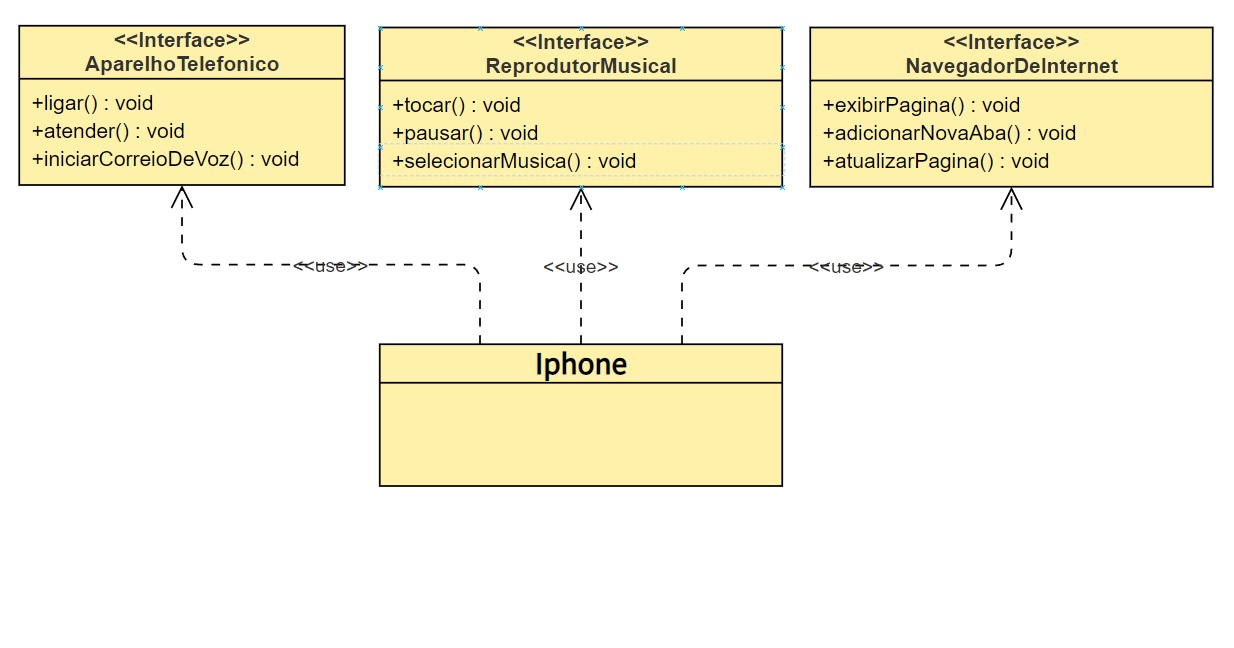
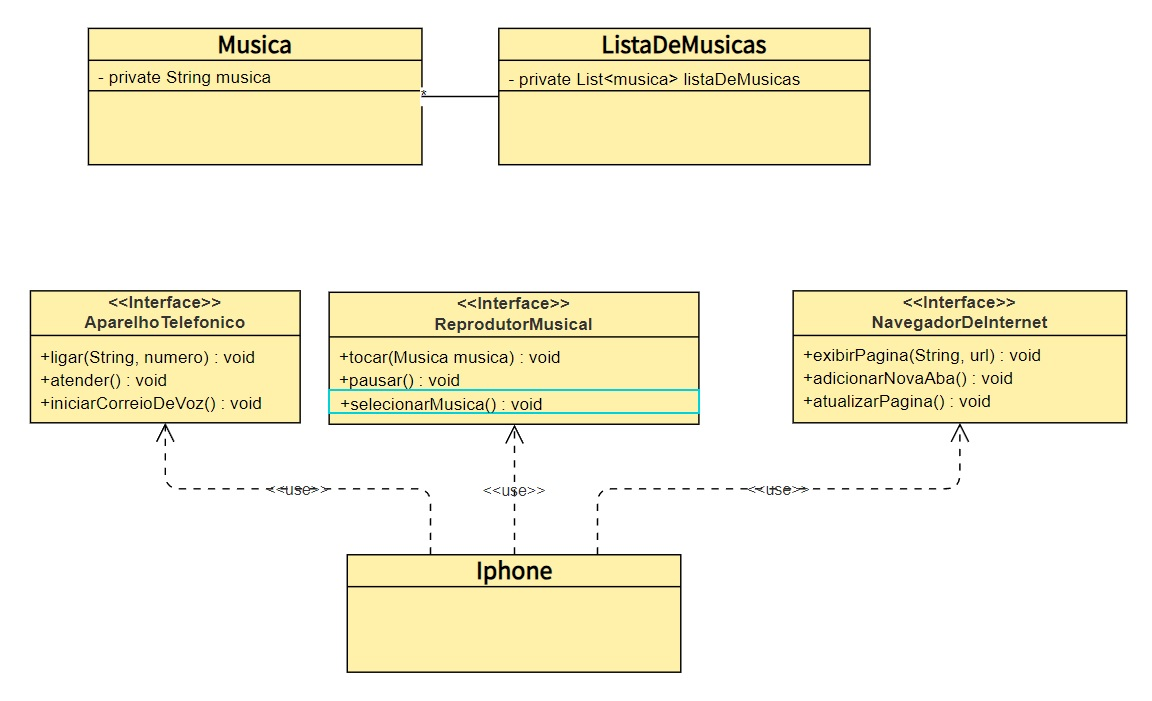
Resolução do desafio com  a Classe Iphone implementando as interfaces referêntes ao diagrama UML

diff --git a/src/edu/ricardobraga/model/Iphone.java b/src/edu/ricardobraga/model/Iphone.java
@@ -1,0 +1,64 @@
+package edu.ricardobraga.model;
+
+import java.util.Arrays;
+import java.util.List;
+
+import edu.ricardobraga.interfaces.AparelhoTelefonico;
+import edu.ricardobraga.interfaces.NavegadorDeInternet;
+import edu.ricardobraga.interfaces.ReprodutorMusical;
+
+public class Iphone implements AparelhoTelefonico, ReprodutorMusical, NavegadorDeInternet {
+
+    
+
+    @Override
+    public void exibirPagina(String url) {
+        System.out.println("Exibindo página: " + url);
+    }
+
+    @Override
+    public void adicionarNovaAba() {
+        System.out.println("Adicionando aba em branco");
+
+    }
+
+    @Override
+    public void atualizarPagina() {
+        System.out.println("Atualizando página");
+    }
+
+    @Override
+    public void tocar(Musica musica) {        
+        System.out.println("Tocando música selecionada" + musica);
+    }
+
+    @Override
+    public void pausar() {
+        System.out.println("Música Pausada");
+    }
+
+    @Override
+    public void selecionarMusica() {
+        List<Musica> listmusica = Arrays.asList(new Musica("musica1"), new Musica("musica2"), new Musica("musica3"));        
+        Musica musicaSelecionada = listmusica.get(1);
+        tocar(musicaSelecionada);
+        
+    }
+
+    @Override
+    public void ligar(String numeroTelefone) {
+        System.out.println("Ligando para: " + numeroTelefone);
+
+    }
+
+    @Override
+    public void atender() {
+        System.out.println("Atendendo ligação");
+    }
+
+    @Override
+    public void iniciarCorreioDeVoz() {
+        System.out.println("Iniciando correio de voz");
+    }
+
+}

diff --git a/src/edu/ricardobraga/App.java b/src/edu/ricardobraga/App.java
@@ -1,0 +1,47 @@
+package edu.ricardobraga;
+
+import java.util.Arrays;
+import java.util.List;
+
+import edu.ricardobraga.model.Iphone;
+import edu.ricardobraga.model.Musica;
+
+public class App {
+
+    public static void main(String[] args) {
+        
+    
+        Iphone iphone = new Iphone();
+    
+    
+        List<Musica> listmusica = Arrays.asList(new Musica("musica1"), new Musica("musica2"), new Musica("musica3"));
+
+        System.out.println("Funções telefone: ");
+        iphone.atender();
+        iphone.ligar("41 9 9999-9999");
+        iphone.iniciarCorreioDeVoz();
+
+        System.out.println();
+
+        System.out.println("Funções Reprodutor Musical: ");
+        iphone.selecionarMusica();
+        iphone.pausar();
+
+        System.out.println();
+
+        System.out.println("Funções Navegador de Internet: ");
+        iphone.exibirPagina("www.google.com");
+        iphone.adicionarNovaAba();
+        iphone.atualizarPagina();
+
+
+
+
+        
+        
+
+
+        
+    }
+
+}

diff --git a/src/edu/ricardobraga/model/Musica.java b/src/edu/ricardobraga/model/Musica.java
@@ -1,0 +1,27 @@
+package edu.ricardobraga.model;
+
+public class Musica {
+    private String musica;
+
+    public Musica(String musica) {
+        this.musica = musica;
+    }
+
+    public String getMusica() {
+        return musica;
+    }
+
+    public void setMusica(String musica) {
+        this.musica = musica;
+    }
+
+    @Override
+    public String toString() {
+        return "Musica selecionada: " + musica;
+    }
+
+    
+
+
+    
+}

diff --git a/src/edu/ricardobraga/model/ListaDeMusicas.java b/src/edu/ricardobraga/model/ListaDeMusicas.java
@@ -1,0 +1,16 @@
+package edu.ricardobraga.model;
+
+import java.util.ArrayList;
+import java.util.List;
+
+public class ListaDeMusicas {
+    private List<Musica> listaDeMusicas;
+
+    
+
+    public ListaDeMusicas() {
+        this.listaDeMusicas = new ArrayList<>(null);
+    }
+
+    
+}

diff --git a/src/edu/ricardobraga/interfaces/ReprodutorMusical.java b/src/edu/ricardobraga/interfaces/ReprodutorMusical.java
@@ -1,0 +1,10 @@
+package edu.ricardobraga.interfaces;
+
+import edu.ricardobraga.model.ListaDeMusicas;
+import edu.ricardobraga.model.Musica;
+
+public interface ReprodutorMusical {
+    public void tocar(Musica musica);
+    public void pausar();
+    public void selecionarMusica();
+}

diff --git a/src/edu/ricardobraga/interfaces/NavegadorDeInternet.java b/src/edu/ricardobraga/interfaces/NavegadorDeInternet.java
@@ -1,0 +1,7 @@
+package edu.ricardobraga.interfaces;
+
+public interface NavegadorDeInternet {
+    public void exibirPagina(String url);
+    public void adicionarNovaAba();
+    public void atualizarPagina();
+}

diff --git a/src/edu/ricardobraga/interfaces/AparelhoTelefonico.java b/src/edu/ricardobraga/interfaces/AparelhoTelefonico.java
@@ -1,0 +1,7 @@
+package edu.ricardobraga.interfaces;
+
+public interface AparelhoTelefonico {
+    public void ligar(String numeroTelefone);
+    public void atender();
+    public void iniciarCorreioDeVoz();
+}

diff --git a/README.md b/README.md
@@ -1,18 +1,20 @@
-## Getting Started
+# dio-uml-iphone
+Public
 
-Welcome to the VS Code Java world. Here is a guideline to help you get started to write Java code in Visual Studio Code.
+### DESCRIÇÃO
+Esse é um desafio feito pelo instrutor [Gleyson Sampaio](https://github.com/glysns) durante o do Boot Camp Backend Java oferecido pela DIO.
 
-## Folder Structure
+### DESAFIO
+Modelagem e diagramação da representação em UML e Código no que se refere ao componente iPhone.
 
-The workspace contains two folders by default, where:
+Com base no vídeo de lançamento do iPhone conforme link abaixo, elabore em uma ferramenta de UML de sua preferência a diagramação das classes e interfaces com a proposta de representar os papéis do iPhone de: Reprodutor Musicial, Aparelho Telefônico e Navegador na Internet. Em seguida crie as classes e interfaces no formato de arquivos .java
 
-- `src`: the folder to maintain sources
-- `lib`: the folder to maintain dependencies
 
-Meanwhile, the compiled output files will be generated in the `bin` folder by default.
+### UML
 
-> If you want to customize the folder structure, open `.vscode/settings.json` and update the related settings there.
+<p align="center">  
+  <img src="https://github.com/ricardiobraga/dio-java-intermediario-desafio-uml-iphone/tree/main/assets/uml.jpg" width="350" alt="UML do projeto">
+</p>
 
-## Dependency Management
 
-The `JAVA PROJECTS` view allows you to manage your dependencies. More details can be found [here](https://github.com/microsoft/vscode-java-dependency#manage-dependencies).
+
